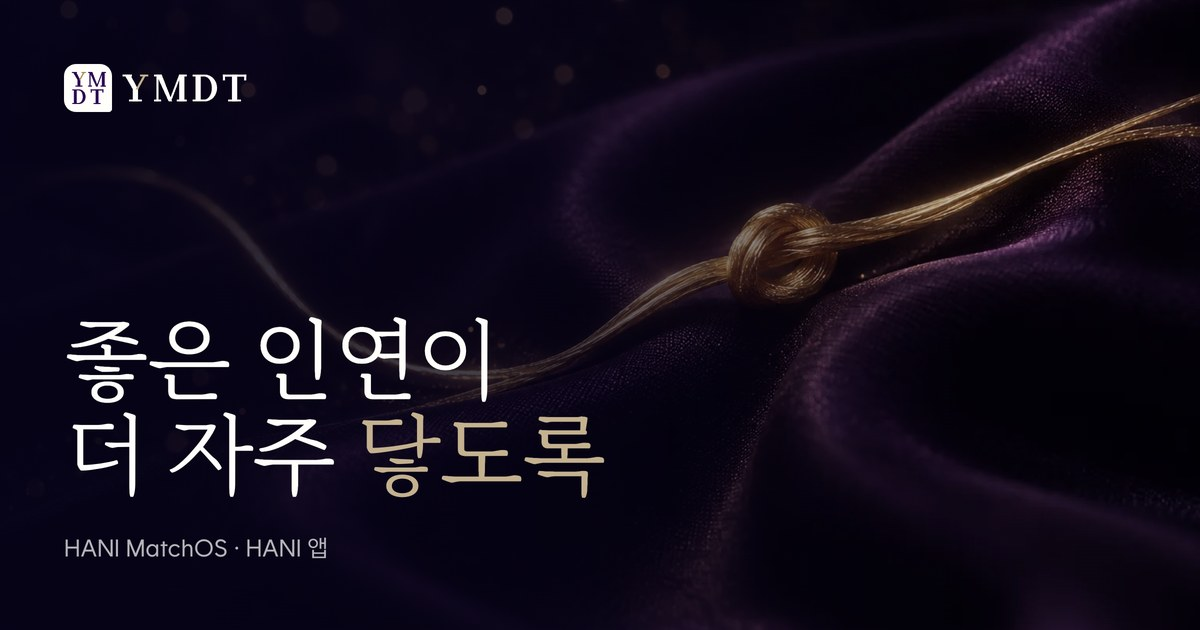
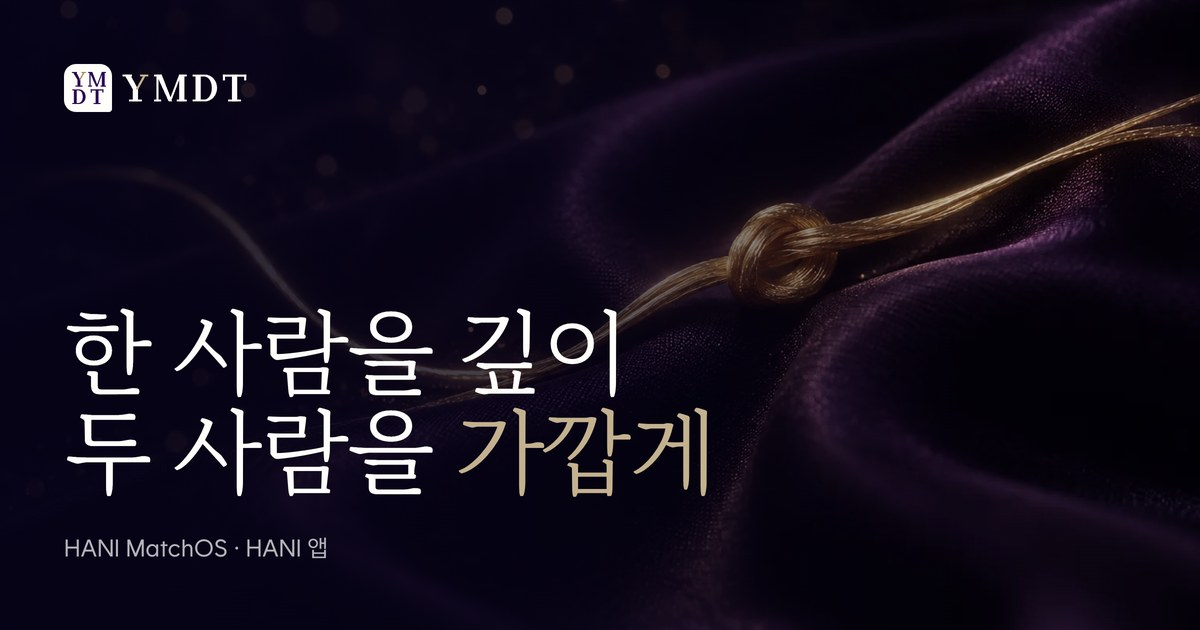
copy: 대표 문장 '한 사람을 깊이, 두 사람을 가깝게'로 교체 — 히어로·푸터·탭 제목·공유 이미지, 휴대폰 히어로 가독성 개선

Changed region(s): [[0.0617, 0.4825, 0.6167, 0.7841]]

diff --git a/components/sections/home/HomeHero.tsx b/components/sections/home/HomeHero.tsx
@@ -4,6 +4,7 @@ import { useEffect, useRef } from 'react';
 import { motion, useReducedMotion, useScroll, useTransform } from 'motion/react';
 import Button from '@/components/site/Button';
 import Container from '@/components/site/Container';
+import { BRAND } from '@/lib/site';
 
 const EASE = [0.22, 1, 0.36, 1] as const;
 
@@ -30,10 +31,11 @@ export default function HomeHero() {
 
   return (
     <section ref={ref} data-header="night" className="relative isolate flex min-h-[100svh] items-end overflow-hidden bg-night pb-20 md:items-center md:pb-0">
-      <motion.div style={{ y }} className="absolute inset-0 -z-20">
+      {/* 휴대폰: 영상을 키우고 위로 올려 금실 매듭이 제목 위쪽에 오도록 */}
+      <motion.div style={{ y }} className="absolute inset-0 -z-20 max-md:top-[-30%] max-md:h-[130%]">
         <video
           ref={video}
-          className="h-full w-full -scale-x-100 object-cover"
+          className="h-full w-full -scale-x-100 object-cover max-md:object-[27%_50%]"
           autoPlay
           muted
           loop
@@ -53,23 +55,28 @@ export default function HomeHero() {
         className="absolute inset-0 -z-10 bg-[linear-gradient(90deg,rgba(7,3,26,.92)_0%,rgba(7,3,26,.66)_42%,rgba(7,3,26,.12)_78%),linear-gradient(180deg,rgba(7,3,26,.55)_0%,transparent_28%,transparent_62%,rgba(7,3,26,1)_100%)]"
         aria-hidden
       />
+      {/* 휴대폰: 글자가 놓이는 아래쪽을 한 번 더 눌러 금실 꼬리가 글자를 가리지 않게 */}
+      <div
+        className="absolute inset-0 -z-10 bg-[linear-gradient(180deg,transparent_0%,transparent_30%,rgba(7,3,26,.5)_42%,rgba(7,3,26,.78)_56%,rgba(7,3,26,.9)_100%)] md:hidden"
+        aria-hidden
+      />
 
       <Container className="relative pt-32">
         <motion.div style={{ opacity: fade }}>
           <motion.p {...line(0.1)} className="eyebrow text-[var(--color-champagne)]">
             YMDT · Makers of HANI
           </motion.p>
-          <h1 className="mt-7 font-display text-[clamp(3.1rem,9vw,8.4rem)] leading-[1.06] font-normal tracking-[-0.035em] text-paper">
+          <h1 className="mt-7 font-display text-[clamp(3.1rem,7.5vw,7rem)] leading-[1.06] font-normal tracking-[-0.035em] text-paper">
             <motion.span {...line(0.2)} className="block">
-              좋은 인연이
+              {BRAND.line1}
             </motion.span>
             <motion.span {...line(0.34)} className="block">
-              더 자주 <span className="text-[var(--color-champagne)]">닿도록</span>
+              {BRAND.line2.split(' ').slice(0, -1).join(' ')}{' '}
+              <span className="text-[var(--color-champagne)]">{BRAND.line2.split(' ').at(-1)}</span>
             </motion.span>
           </h1>
           <motion.p {...line(0.5)} className="mt-8 max-w-[34rem] text-[17px] leading-[1.8] text-white/72 md:text-[19px]">
-            YMDT는 사람과 사람 사이의 구조를 만듭니다. 결혼정보업체를 위한 HANI MatchOS, 사주로 나를 읽고 대화로 나를
-            이해하는 HANI 앱.
+            {BRAND.definition} {BRAND.products}
           </motion.p>
           <motion.div {...line(0.62)} className="mt-11 flex flex-wrap gap-3">
             <Button href="/matchos/" variant="light" arrow size="lg">

diff --git a/components/sections/home/Sections.tsx b/components/sections/home/Sections.tsx
@@ -28,12 +28,12 @@ export function ProductDuo() {
   return (
     <section className="paper-grain relative bg-paper-subtle pt-24 pb-24 md:pt-32 md:pb-36">
       <Container>
-        <EditorialBar en="What we make" ko="YMDT가 만드는 두 개의 HANI" />
+        <EditorialBar en="What we make" ko="YMDT가 만드는 제품" />
         <Reveal className="mt-10 md:mt-14">
           <h2 className="font-display text-[clamp(2.1rem,4.6vw,4.25rem)] leading-[1.18] font-normal tracking-[-0.025em] text-ink">
-            사람을 잇는 일,
+            사람을 이해하는 기술을
             <br />
-            두 가지 방식으로
+            두 개의 HANI에 담았습니다
           </h2>
         </Reveal>
 
@@ -169,7 +169,8 @@ export function Principles() {
                 <span className="text-brand">더 잘 고르도록 돕습니다</span>
               </h2>
               <p className="mt-6 max-w-lg text-[17px] leading-[1.8] text-ink-sub">
-                인연은 점수로 정해지지 않습니다. HANI는 조건과 가치관, 두 사람의 의사를 함께 살피는 사람의 판단 곁에 있습니다.
+                인연은 점수로 정해지지 않습니다. HANI는 조건과 가치관, 두 사람의 의사를 함께 살피도록 도울 뿐, 마지막 결정은
+                언제나 사람이 합니다.
               </p>
             </Reveal>
             <Stagger className="mt-12 divide-y divide-line border-y border-line">

diff --git a/app/layout.tsx b/app/layout.tsx
@@ -1,23 +1,17 @@
 import type { Metadata, Viewport } from 'next';
 import './globals.css';
 import { wanted, maru } from './fonts';
-import { shareMeta } from '@/lib/site';
+import { BRAND, shareMeta } from '@/lib/site';
 
 export const metadata: Metadata = {
   metadataBase: new URL('https://ymdt.io'),
   title: {
-    default: 'YMDT — 좋은 인연이 닿는 구조를 만듭니다',
+    default: `YMDT — ${BRAND.slogan}`,
     template: '%s · YMDT',
   },
-  description:
-    '결혼정보업체를 위한 CRM·크로스매칭 플랫폼 HANI MatchOS, 사주로 나를 읽고 대화로 나를 이해하는 HANI 앱을 만듭니다.',
+  description: BRAND.description,
   applicationName: 'YMDT',
-  ...shareMeta(
-    'YMDT — 좋은 인연이 더 자주 닿도록',
-    '결혼정보업체를 위한 CRM·크로스매칭 플랫폼 HANI MatchOS, 사주로 나를 읽고 대화로 나를 이해하는 HANI 앱을 만듭니다.',
-    '/og/home.jpg',
-    'YMDT — 좋은 인연이 더 자주 닿도록',
-  ),
+  ...shareMeta(`YMDT — ${BRAND.slogan}`, BRAND.description, '/og/home.jpg', `YMDT — ${BRAND.slogan}`),
 };
 
 export const viewport: Viewport = {

diff --git a/components/site/Footer.tsx b/components/site/Footer.tsx
@@ -1,7 +1,7 @@
 import Link from 'next/link';
 import YmdtLogo from '@/components/brand/YmdtLogo';
 import HaniWordmark from '@/components/brand/HaniWordmark';
-import { CONTACT_EMAIL, mailto } from '@/lib/site';
+import { BRAND, CONTACT_EMAIL, mailto } from '@/lib/site';
 
 export default function Footer() {
   return (
@@ -10,9 +10,8 @@ export default function Footer() {
       <div className="mx-auto grid w-full max-w-[1320px] gap-12 px-5 py-16 sm:px-8 md:grid-cols-[1.4fr_1fr_1fr_1fr] lg:px-12">
         <div>
           <YmdtLogo tone="paper" />
-          <p className="mt-5 max-w-xs text-[14px] leading-relaxed text-white/50">
-            좋은 인연이 더 자주 닿도록. 사람과 사람 사이의 구조를 만듭니다.
-          </p>
+          <p className="mt-6 font-display text-[19px] leading-snug text-paper/90">{BRAND.slogan}</p>
+          <p className="mt-2 max-w-xs text-[14px] leading-relaxed text-white/50">{BRAND.definition}</p>
         </div>
         <div>
           <p className="eyebrow text-white/35">Products</p>

diff --git a/lib/site.ts b/lib/site.ts
@@ -1,4 +1,16 @@
 export const CONTACT_EMAIL = 'hani@ymdt.io';
+
+/** YMDT 대표 문장 — 바꿀 때는 여기만 고치면 히어로·푸터·탭 제목·공유 정보가 함께 바뀐다 */
+export const BRAND = {
+  line1: '한 사람을 깊이',
+  line2: '두 사람을 가깝게',
+  slogan: '한 사람을 깊이, 두 사람을 가깝게',
+  definition: 'YMDT는 사람을 이해하는 기술을 만듭니다.',
+  // 제품 이름이 줄바꿈으로 끊기지 않도록 붙임 공백(\u00A0) 사용
+  products: '나를 깊이 알아가는 HANI\u00A0앱, 좋은 만남을 잇는 HANI\u00A0MatchOS.',
+  description:
+    'YMDT는 사람을 이해하는 기술을 만듭니다. 나를 깊이 알아가는 HANI 앱, 결혼정보업체를 위한 CRM·크로스매칭 플랫폼 HANI MatchOS.',
+} as const;
 export const mailto = (subject: string) => `mailto:${CONTACT_EMAIL}?subject=${encodeURIComponent(subject)}`;
 
 export const NAV = [

diff --git a/PLAN.md b/PLAN.md
@@ -64,7 +64,7 @@
 
 ### `/` 홈 (YMDT 브랜드)
 1. 히어로: 밤 배경 + 금실/성좌 (필요 시 힉스필드 영상 루프)
-2. 브랜드 문장: "좋은 인연이 닿는 구조를 만듭니다" 류의 짧은 선언
+2. 브랜드 문장: "한 사람을 깊이, 두 사람을 가깝게" (2026-09-29 확정, A안)
 3. 제품 두 개를 나란히: MatchOS(메인, 크게) / 사주앱(서브)
 4. 우리가 지키는 원칙: 파트너, 신뢰, 개인정보
 5. 문의 CTA
@@ -141,4 +141,5 @@
 - 2026-09-29: P4 GPT 이미지로 하니 캐릭터 고해상도 5종(원본 + 대화·다이어리·관계·인사이트 포즈), 한지 위 금반지, 밤빛 비단 위 금실 스틸 제작. 힉스필드(회사 계정, 무료 크레딧)로 금실 영상 제작 → 11.5초 반복 영상(WebM·MP4, PC·모바일)으로 가공. 브로셔 원앙을 벡터로 추출.
 - 2026-09-29: P5~P6 시그니처 부품(접힌 모서리, 금실 진행선, 인장 스탬프, 기기 프레임, 크로스매칭 성좌, 매칭풀 차트, 스크롤 쇼케이스)과 세 페이지 구현.
 - 2026-09-29: P7 1440·1319·390px 점검, 어두운 구간에서 헤더 자동 반전, 정적 빌드 통과.
+- 2026-09-29: 대표 문장 재기획 — '좋은 인연이 더 자주 닿도록 / 구조를 만듭니다'가 어색하다는 의견으로 3안 비교 후 A안 '한 사람을 깊이, 두 사람을 가깝게' 확정. 문장은 `lib/site.ts`의 `BRAND` 한 곳에서 관리.
 - 2026-09-29: 사용자 요청으로 YMDT 로고 신규 제작(인장형 YM/DT 모노그램 + 굵은 세리프 워드마크), HANI 워드마크 굵게, HANI MatchOS 정식 락업 적용, 파비콘·공유 이미지 교체.
